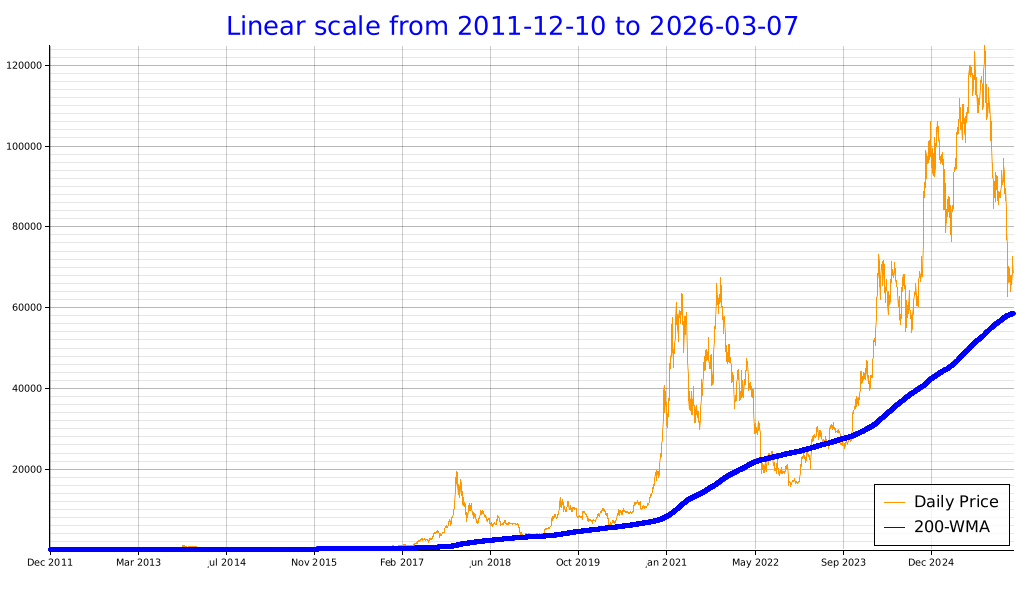
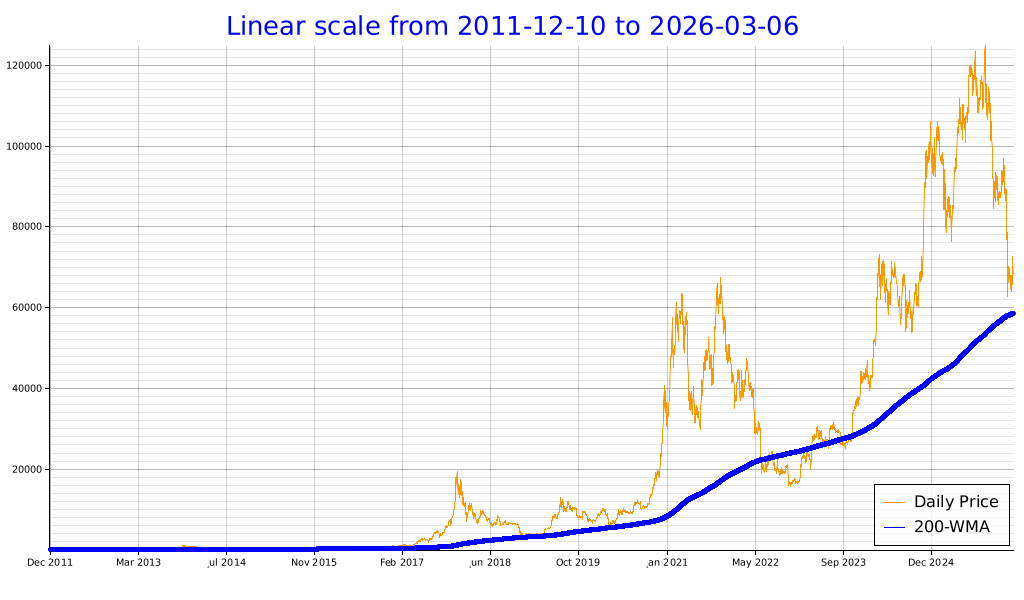
deploy: 37367be3a55653cfc7c730fffc92803847cbb72f

diff --git a/index.html b/index.html
@@ -34,7 +34,7 @@
           <td>97,860.60</td>
           <td>60,074.20</td>
           <td></td>
-          <td>2,971,225,030,656.0</td>
+          <td>2,970,662,207,488.0</td>
         </tr>
         <tr>
           <td class='yearly-summary-year'>2025</td>
@@ -235,7 +235,7 @@
     <br><br>
     <a href='https://github.com/bitcoin-tools/btracker'>Link to the report codebase</a>
     <br><br>
-    This report was last updated at 2026-03-06 23:02:34.217499305 UTC.
+    This report was last updated at 2026-03-06 23:43:06.555487108 UTC.
     <br><br>
     <div class='scrollable-table'>
       <table>
@@ -255,16 +255,16 @@
         </thead>
         <tbody>
           <tr>
-            <td>2026-03-07</td>
+            <td>2026-03-06</td>
             <td>70,878.65</td>
             <td>71,336.35</td>
             <td>67,815.67</td>
-            <td>68,320.37</td>
-            <td class='wma-column'>58,590.78</td>
-            <td>23.06 (0.03 %)</td>
-            <td>32,279.45 (89.5 %)</td>
+            <td>68,230.71</td>
+            <td class='wma-column'>58,590.71</td>
+            <td>22.99 (0.03 %)</td>
+            <td>32,189.79 (89.3 %)</td>
             <td>3,520.67 (5.1 %)</td>
-            <td>-2,520.75 (-3.5 %)</td>
+            <td>-2,610.40 (-3.6 %)</td>
           </tr>
           <tr>
             <td>2026-03-05</td>
